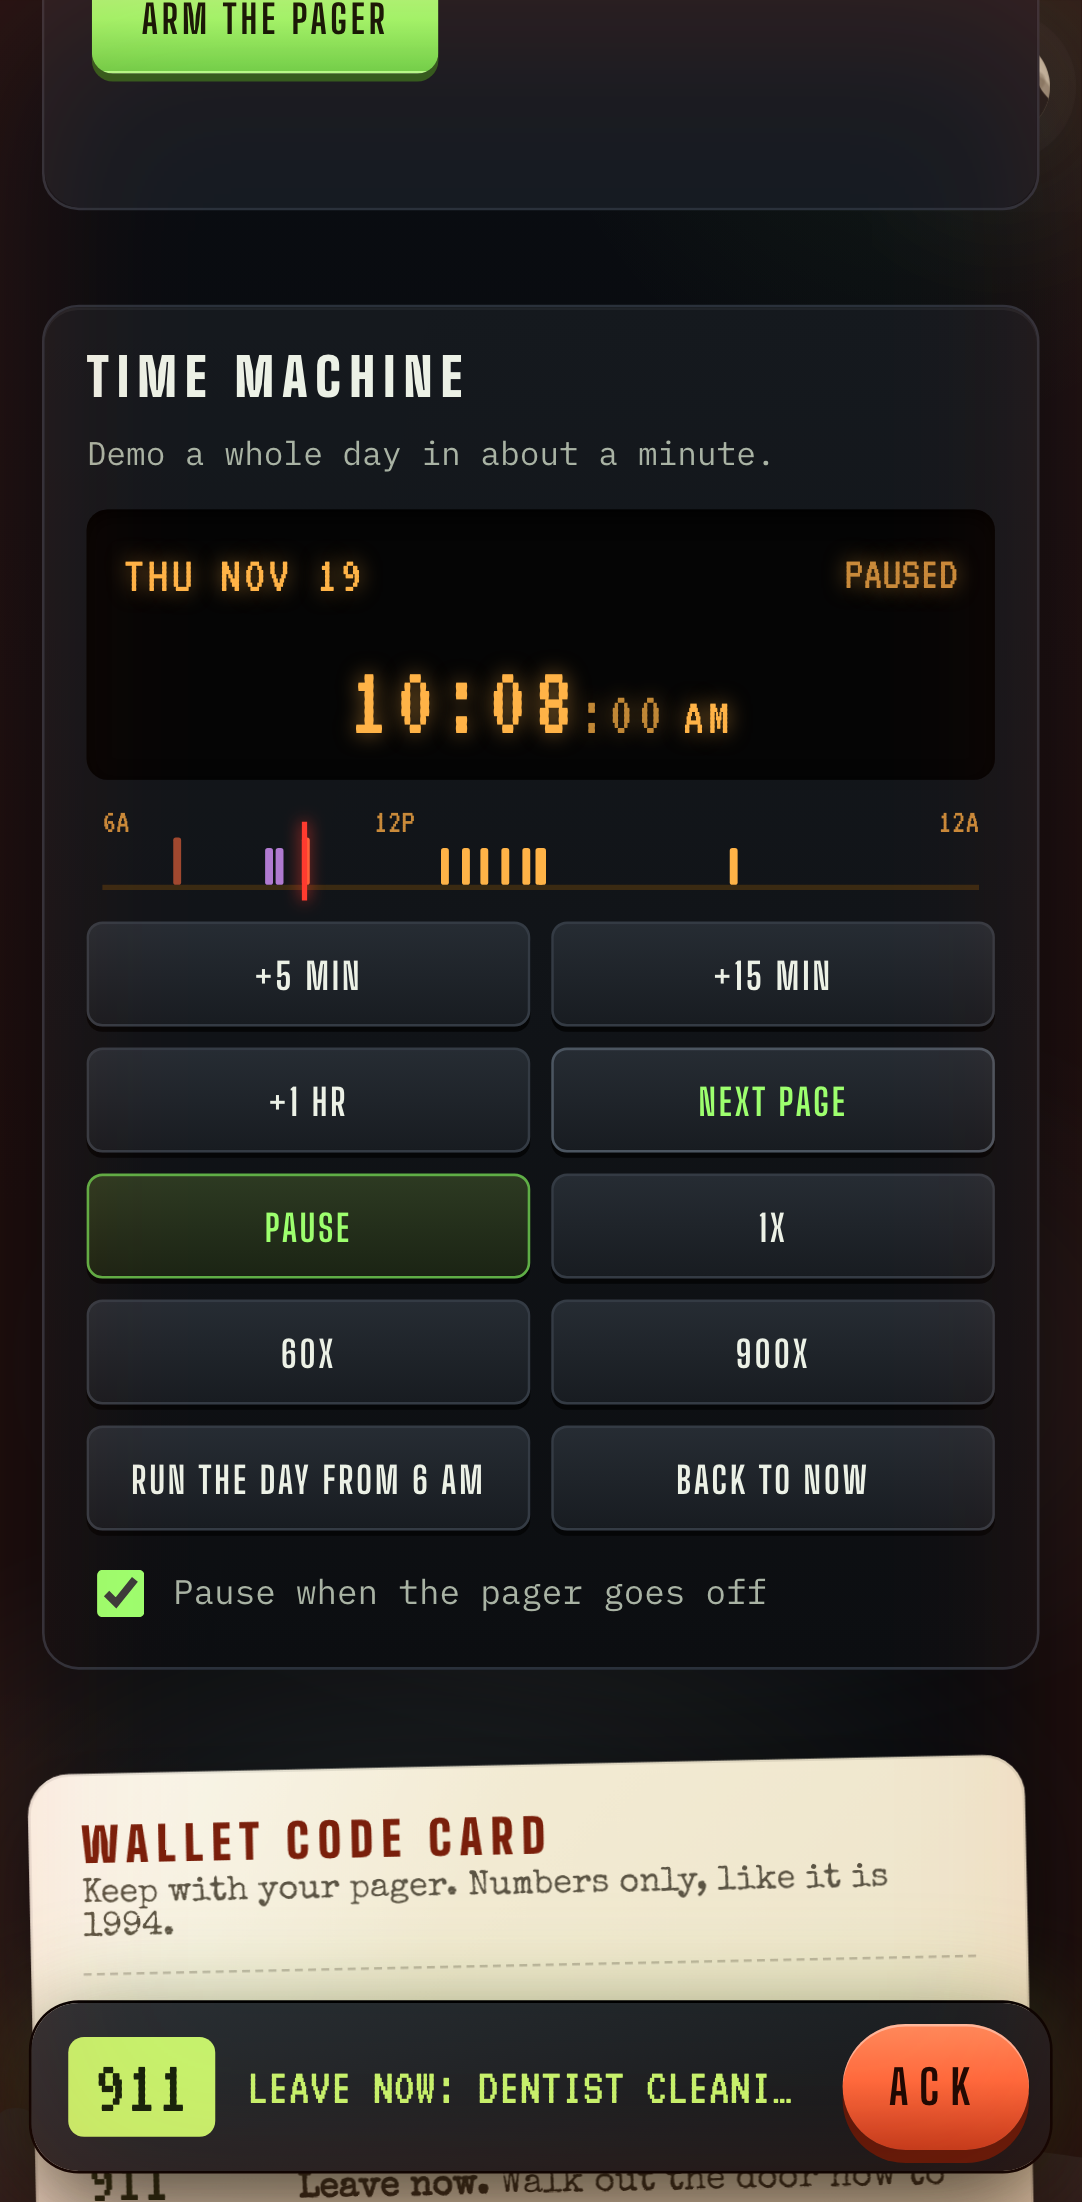
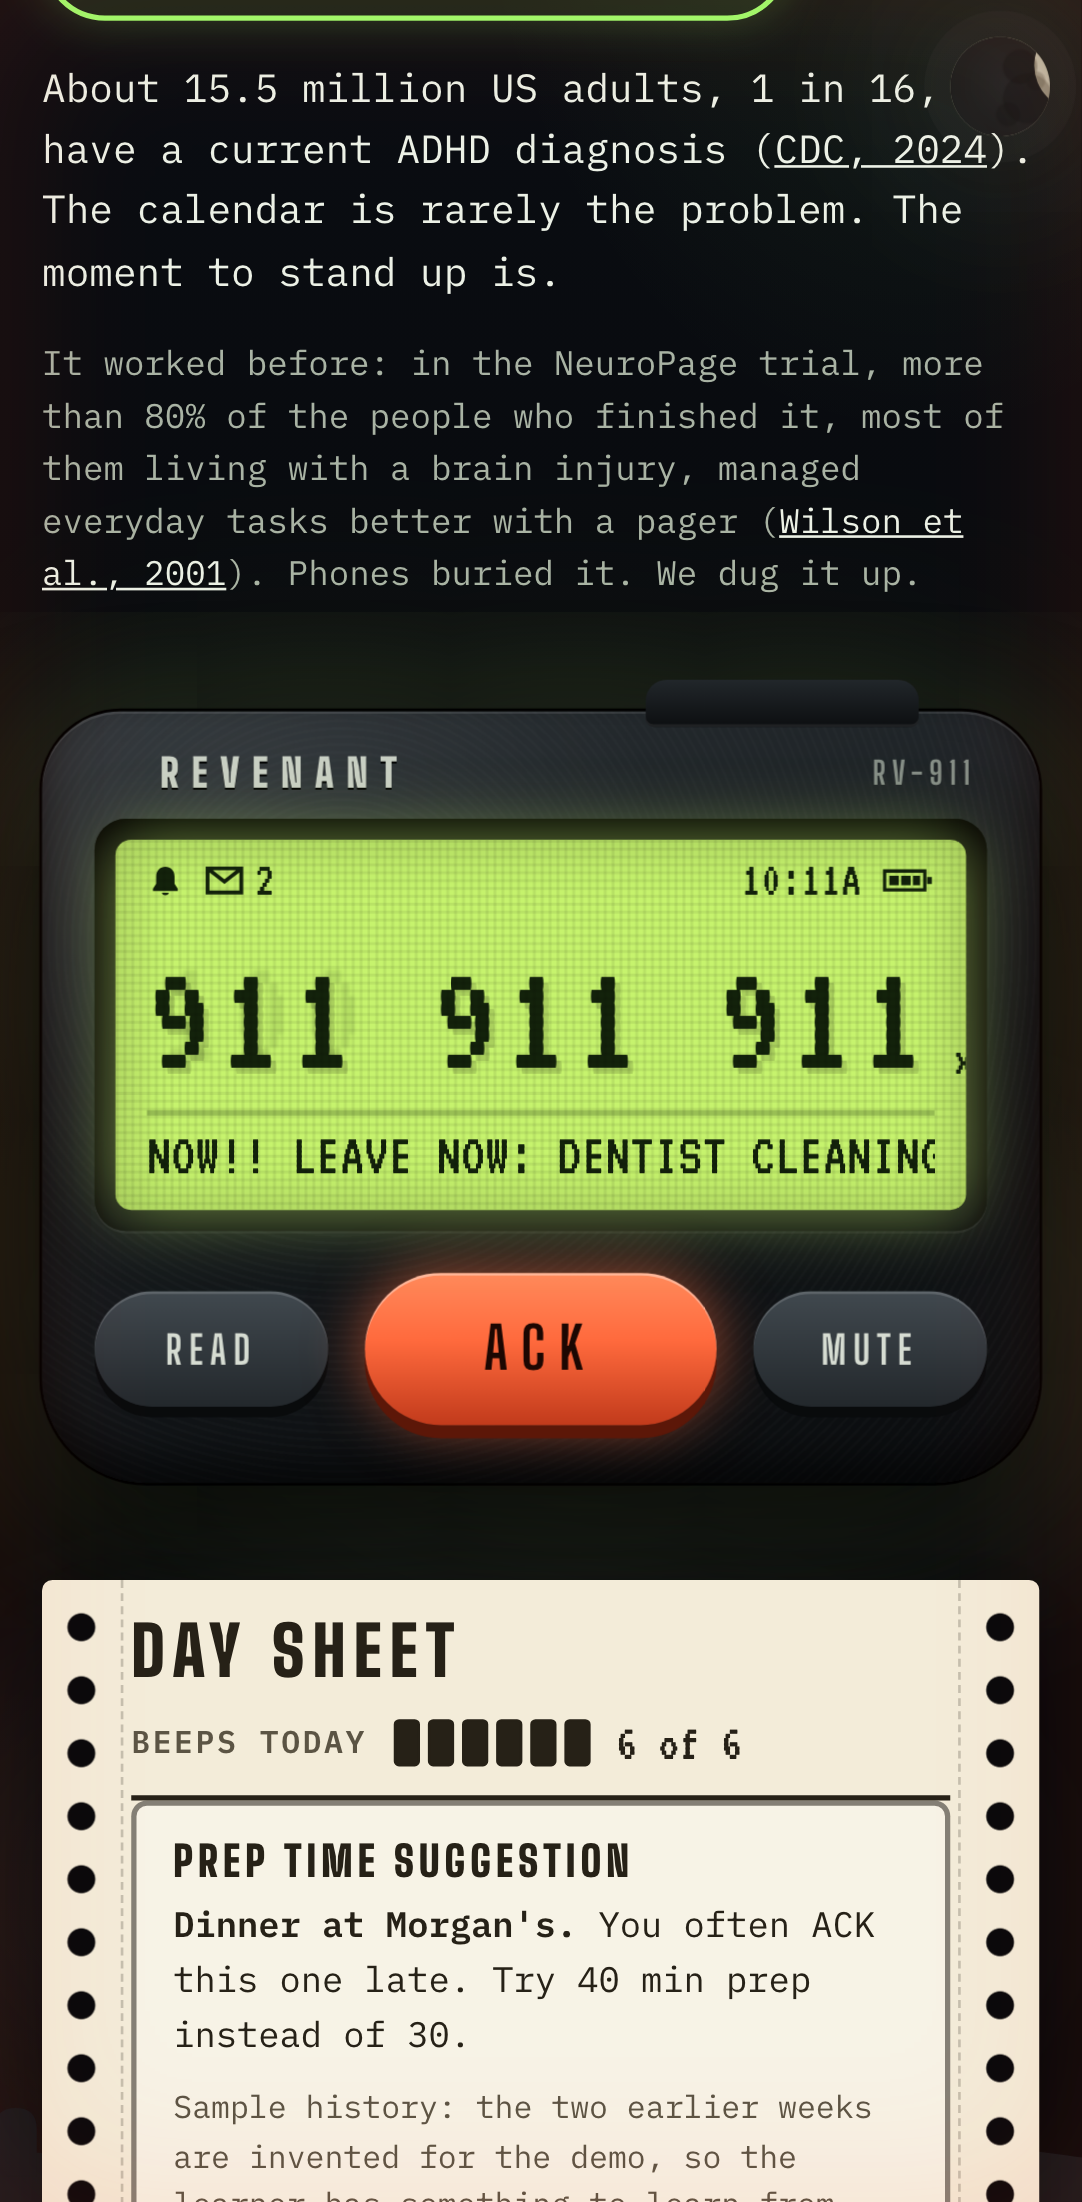
Keep the whole pager on screen on phones
On 360-412 px screens a long LCD line widened the pager to 460 px and the
page's overflow clip hid the cut-off edge. The one-column layout now
stretches its children and lets the LCD line shrink, so the device always
fits the viewport.

Adds an end-to-end check that measures the pager's bounding box at 360,
390 and 412 px on the idle, running and 666 screens, since scrollWidth
cannot see clipped overflow. Reshoots docs/media/phone.png with the full
pager mid-page, and lets scripts/capture-media.mjs take a single shot.

diff --git a/tests/e2e/phone.spec.ts b/tests/e2e/phone.spec.ts
@@ -30,3 +30,31 @@ test('at 390 px the demo button is above the fold and keyboard hints are hidden'
   const width = await page.evaluate(() => document.documentElement.scrollWidth);
   expect(width).toBeLessThanOrEqual(390);
 });
+
+// The page clips horizontal overflow (`overflow-x: clip`), so scrollWidth cannot see a pager
+// that is wider than the screen. Measure the device itself on each screen a judge will see.
+for (const width of [360, 390, 412]) {
+  test(`at ${width} px the whole pager fits on the idle, running and 666 screens`, async ({ page }) => {
+    await page.setViewportSize({ width, height: 844 });
+    const fits = async (screen: string) => {
+      const box = await page.locator('.pager').boundingBox();
+      const inner = await page.evaluate(() => window.innerWidth);
+      expect(box!.x, `${screen}: left edge`).toBeGreaterThanOrEqual(0);
+      expect(box!.x + box!.width, `${screen}: right edge`).toBeLessThanOrEqual(inner);
+      const ticker = await page.locator('.lcd-ticker').boundingBox();
+      expect(ticker!.x + ticker!.width, `${screen}: LCD line`).toBeLessThanOrEqual(box!.x + box!.width);
+    };
+
+    await page.goto('/?fresh&at=2026-11-19T05:00&tz=America/Chicago');
+    await fits('idle');
+
+    await page.getByTestId('demo-cta').click();
+    await expect(page.locator('.pager')).toHaveAttribute('data-state', /^(paging|quiet)$/, { timeout: 20_000 });
+    await fits('running');
+
+    await page.goto('/?sample&fresh&at=2026-11-19T23:00&tz=America/Chicago');
+    await page.getByRole('button', { name: /^Acknowledge/ }).first().click();
+    await expect(page.locator('.pager')).toHaveAttribute('data-state', 'haunted');
+    await fits('666');
+  });
+}

diff --git a/src/app/styles.css b/src/app/styles.css
@@ -325,9 +325,11 @@ kbd {
   .layout {
     grid-template-columns: minmax(0, 1fr);
   }
+  /* Stretch, so a long LCD line cannot widen the pager past a phone's edge. */
   .layout {
     display: flex;
     flex-direction: column;
+    align-items: stretch;
     max-width: 640px;
   }
   /* On one column, the day sheet comes straight after the pager. */
@@ -336,6 +338,13 @@ kbd {
   }
   .pager-wrap {
     order: 1;
+    grid-template-columns: minmax(0, 1fr);
+    min-width: 0;
+    width: 100%;
+  }
+  .lcd-ticker,
+  .lcd-text {
+    min-width: 0;
   }
   .keys {
     order: 2;
